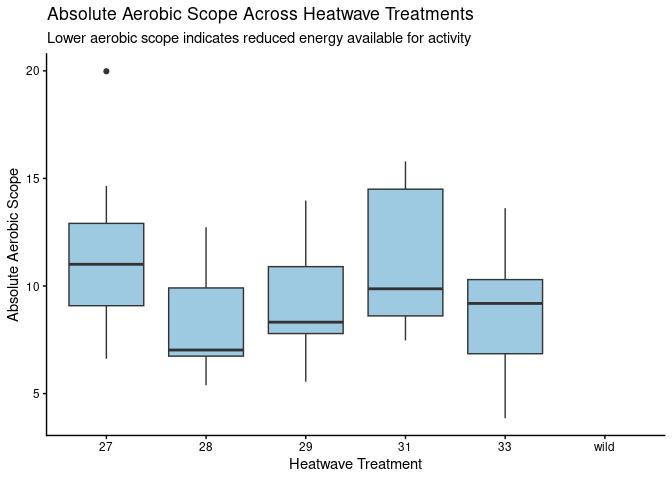
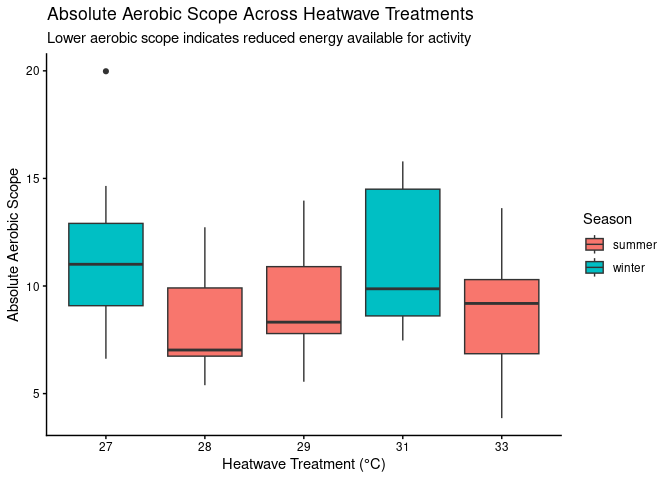
Removed wild from graph 5 and added seasons. Made another option graph for 6 that we may like more.

diff --git a/memo/memo.md b/memo/memo.md
@@ -194,21 +194,26 @@ ggplot(df, aes(x = bw_g, y = mmr_corrected, color = season)) +
 
 ``` r
 aerobic_scope_treatment <- heatwaves_coral_fish_clean |>
-  ggplot(aes(x = treatment_new, y = absolute_aerobic_scope)) +
-  geom_boxplot(fill = "#9ECAE1") +
+  filter(treatment_new != "wild") |>
+  mutate(treatment_new = factor(treatment_new,
+                                levels = c("27", "28", "29", "31", "33"))) |>
+  ggplot(aes(x = treatment_new,
+             y = absolute_aerobic_scope,
+             fill = season)) +
+  geom_boxplot(position = position_dodge(width = 0.8)) +
   labs(
     title = "Absolute Aerobic Scope Across Heatwave Treatments",
     subtitle = "Lower aerobic scope indicates reduced energy available for activity",
-    x = "Heatwave Treatment",
-    y = "Absolute Aerobic Scope"
+    x = "Heatwave Treatment (°C)",
+    y = "Absolute Aerobic Scope",
+    fill = "Season"
   ) +
   theme_classic()
 
-# Display the plot
 aerobic_scope_treatment
 ```
 
-    ## Warning: Removed 25 rows containing non-finite outside the scale range
+    ## Warning: Removed 17 rows containing non-finite outside the scale range
     ## (`stat_boxplot()`).
 
 ![](memo_files/figure-gfm/aerobic_scope_heatwaves-1.png)<!-- --> \#Plot
@@ -235,6 +240,28 @@ heatwaves_coral_fish_clean |>
     ## (`stat_boxplot()`).
 
 ![](memo_files/figure-gfm/Aerobic_Scope_Seasons-1.png)<!-- -->
+
+``` r
+heatwaves_coral_fish_clean |>
+  ggplot(aes(x = season, y = absolute_aerobic_scope, color = season)) +
+  geom_jitter(width = 0.15, size = 2, alpha = 0.7) +
+  labs(
+    title = "Aerobic Scope Across Seasons",
+    subtitle = "Lower aerobic scope indicates reduced energy available for activity",
+    x = "Season",
+    y = "Absolute Aerobic Scope"
+  ) +
+  theme_classic(base_size = 14) +
+  theme(
+    legend.position = "none",
+    plot.title = element_text(face = "bold", hjust = 0.5)
+  )
+```
+
+    ## Warning: Removed 25 rows containing missing values or values outside the scale range
+    ## (`geom_point()`).
+
+![](memo_files/figure-gfm/Aerobic_Scope_Seasons-2.png)<!-- -->
 
 #### Final Plot 1
 
